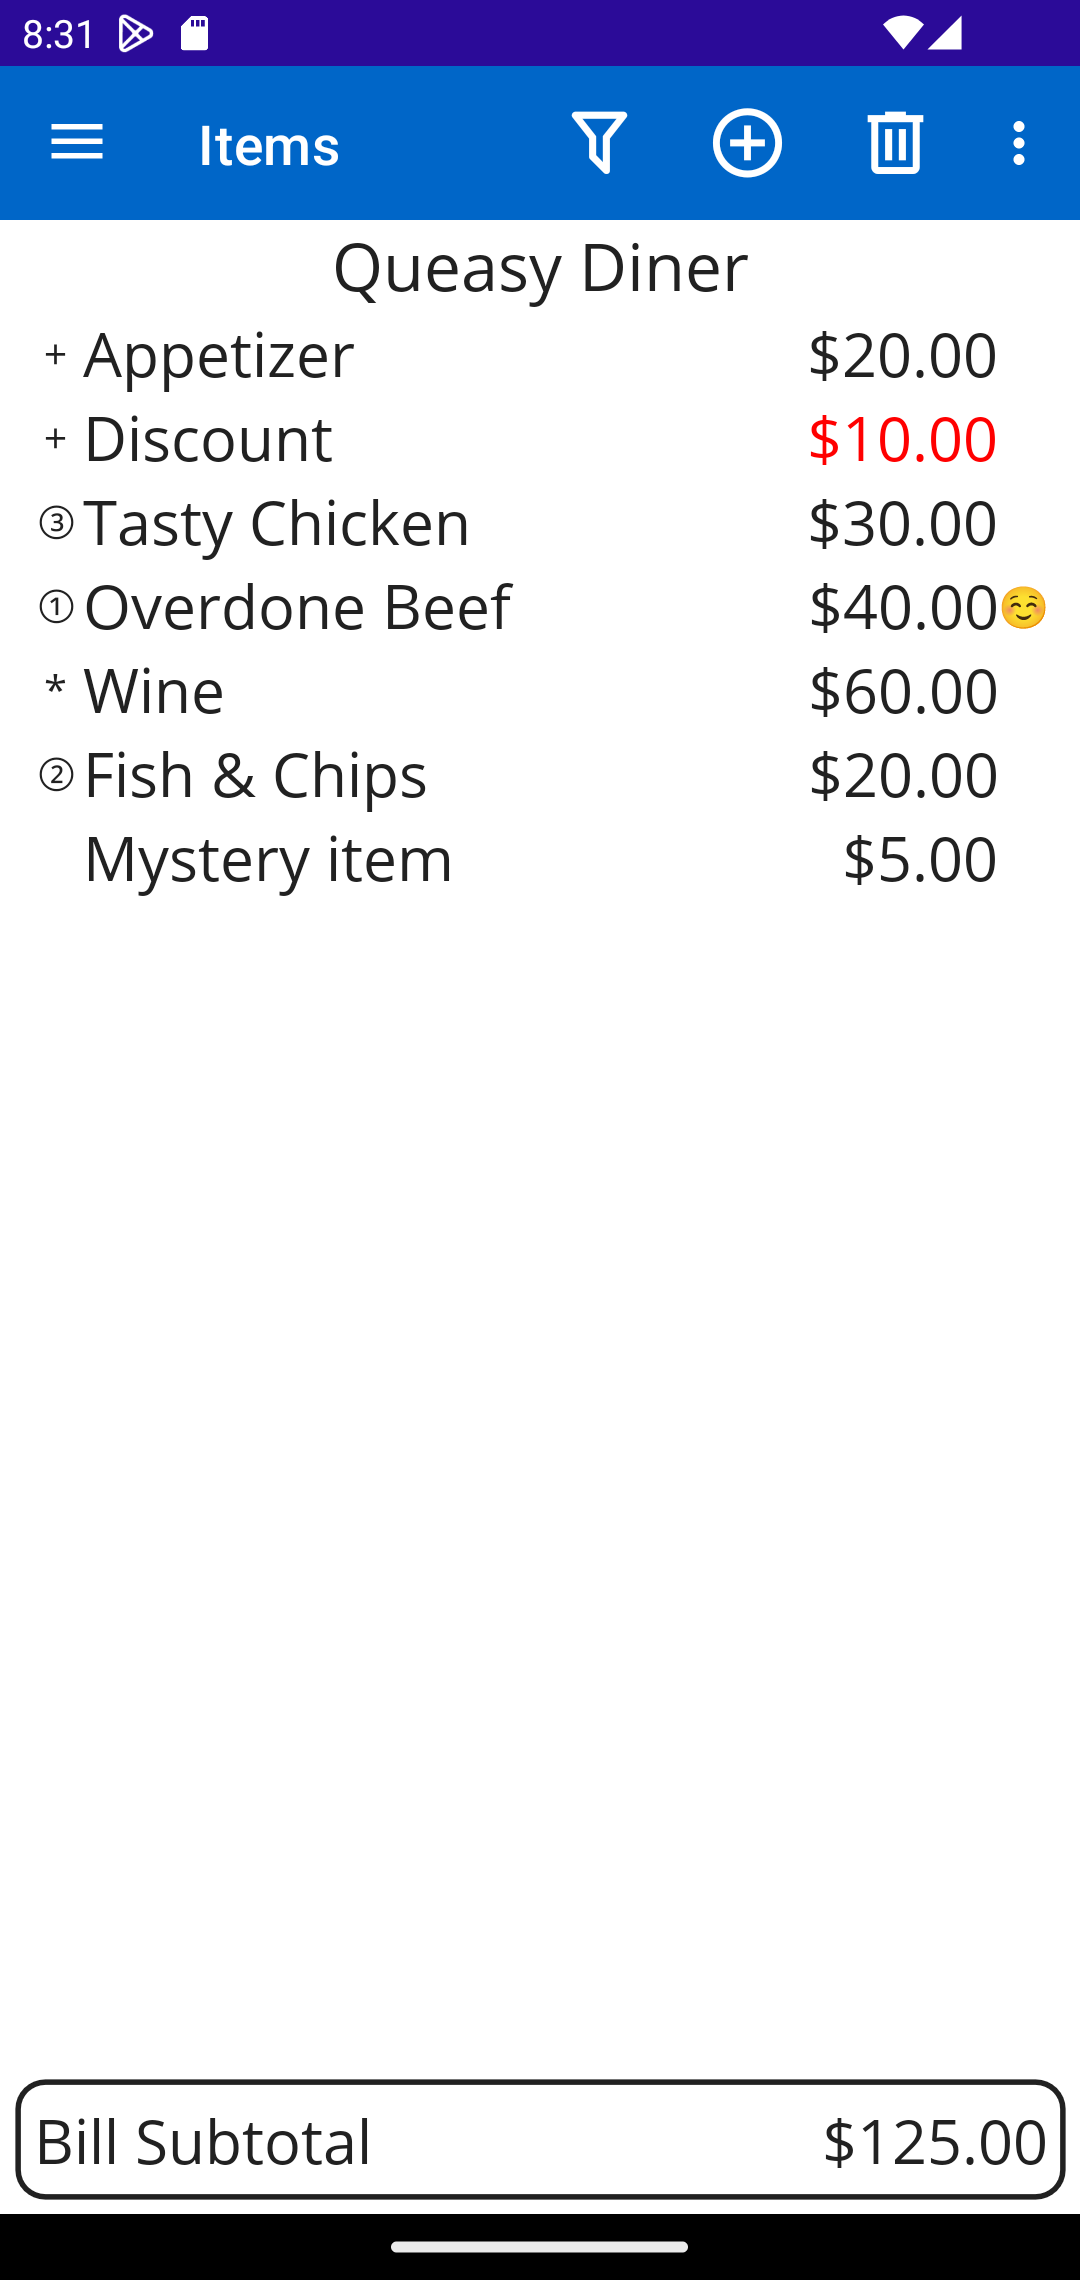
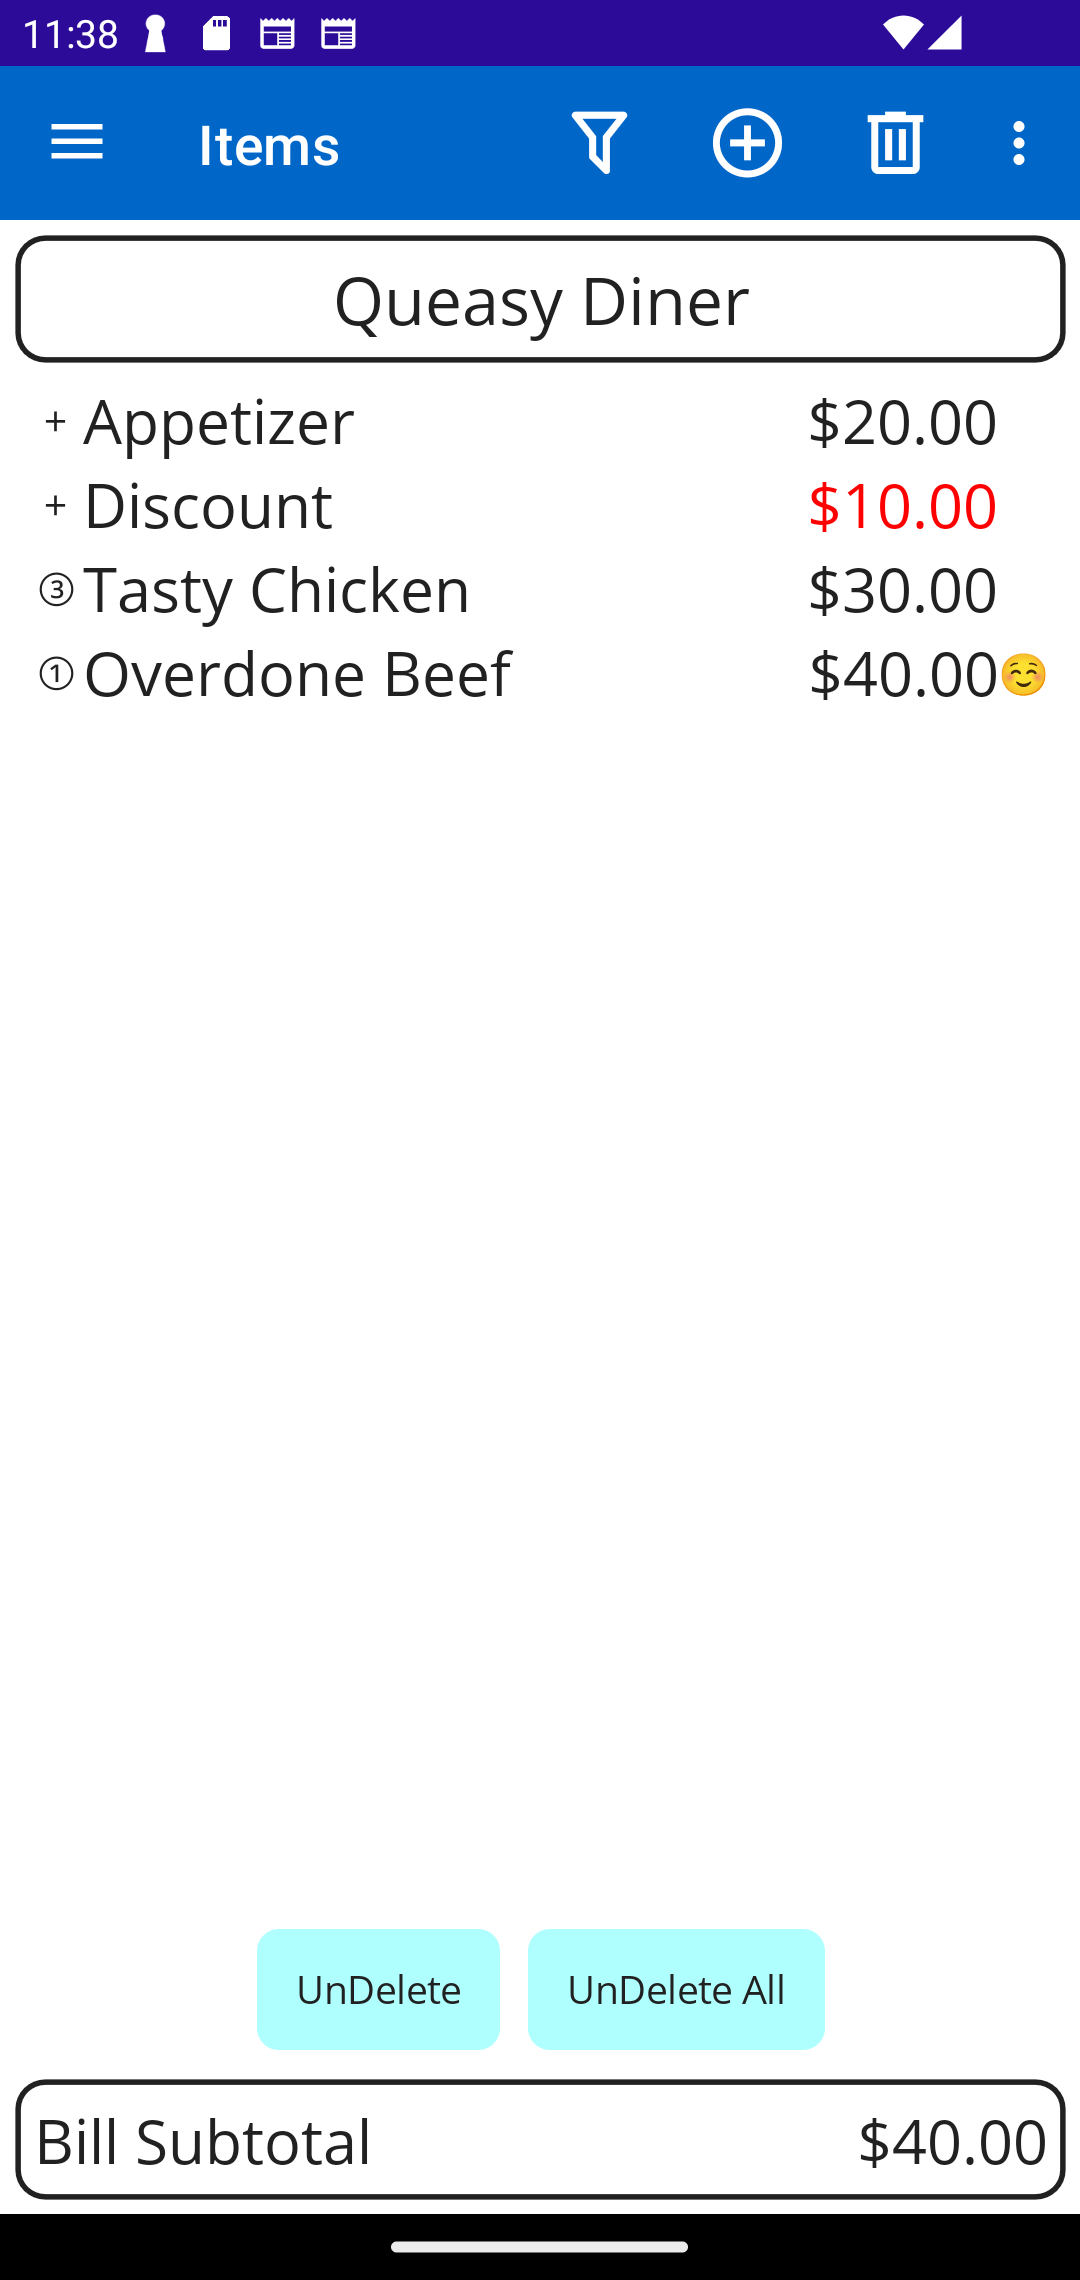
Update LineItemsPage Help to 4.1.5

diff --git a/web/divisibill/lineitemsglossary.html b/web/divisibill/lineitemsglossary.html
@@ -13,15 +13,21 @@
 <h3 id="flyout">Flyout (<u></u>)</h3>
 <p>This icon, in the top left corner of the screen, allows you to show or collapse the flyout menu to navigate to other pages (navigate from the Items page to the Totals page by swiping left, back to the Items page by swiping right).</p>
 <h3 id="filter">Filter (<u></u>/<u></u>)</h3>
-<p>Cancels filtering for a particular person if it is already in use or filters based on the first person assigned to the selected item (if there is one).</p>
+<p>Changes filtering, either by cycling round all the participants, or if an item is selected, all the participants for the selected particular item. Before cycling round to the first item it turn off filtering altogether, so as to show the full list of items.</p>
 <h3 id="add">Add (<u></u>)</h3>
-<p>Adds a new item to the bill and selects it so you can edit the description, amount and assignment to participants.</p>
+<p>Adds a new item to the bill before the currently selected item and selects the newly added item so you can edit the description, amount and assignment to participants.</p>
 <h3 id="delete">Delete (<u></u>)</h3>
 <p>Deletes the selected item or items (you can Undo this if you do it by mistake). To delete a single item, you can also swipe left on that item.</p>
 <h3 id="ellipsis">Ellipsis (<u></u>)</h3>
-<p>Tap on the ellipsis to open a secondary menu containing commands to send mail or distribute shares of an item.</p>
-<p>Selecting &quot;Mail&quot; will send mail containing information about the bill overall, not personalized to any specific participant.</p>
-<p>The selections for sharing let you clear sharing, share evenly, or share proportionally according to what each person spent.</p>
+<p>Tap on the ellipsis to open a secondary menu containing a selection of commands.</p>
+<ul>
+<li>Clear Filter: Stops filtering for a particular participant and shows all items.</li>
+<li>Duplicate: Creates a copy of the selected item and places it before the item (delete and undelete it to move it somewhere else).</li>
+<li>Send Mail: will send mail containing information about the bill overall, not personalized to any specific participant.</li>
+<li>Payments: Shows what the payment totals for the bill and the tip to add to round the total to an exact amount.</li>
+<li>Sharing: Clear sharing on the selected item, share it evenly between item participants, or share proportionally according to what each participant spent on the rest of the bill (which can be handy for splitting discounts). The &quot;Change Sharing&quot; command cycles among these choices.</li>
+<li>Swipe: for long item lists this lets you scroll around in them.</li>
+</ul>
 <h2 id="venue-name">Venue Name</h2>
 <p>This is the name of the current venue. Tapping the name shows the properties (tax and tip rates, for example) of the current bill, double tapping lets you select a new venue from your list.</p>
 <h2 id="sharing-control-column">Sharing Control Column</h2>
@@ -30,7 +36,11 @@
 <h2 id="comp">Comp</h2>
 <p>Sometimes items will be &quot;comped&quot; by a restaurant, usually by way of an apology because something went wrong. Clicking in this column allows you to toggle the Comped status of an item, denoted by ☺ (a smiley face icon). Comped items are free, but are still considered when calculating the tip. If you don't want a comped item to contribute to the tip, just set the cost to zero, or delete the item altogether.</p>
 <h2 id="line-items">Line Items</h2>
-<p>You can swipe individual items left to delete them (if you delete an item by mistake you can get it back until you exit the page). Tap on an item to make it the current focus so you can edit the name or price and/or assign it to one or more participants.</p>
+<p>You can swipe individual items left to delete them (if you delete an item by mistake you can get it back until you exit the page). Tap on an item to make it the current focus so you can edit the name or price and/or assign it to one or more participants. This button disappears when you leave the page and you can no longer restore the current set of deleted items.</p>
+<h2 id="undelete">Undelete</h2>
+<p>The Undelete button appears when there is at least one deleted item, tap it to restore the most recently deleted item. This button disappears when you leave the page.</p>
+<h2 id="undelete-all">Undelete All</h2>
+<p>The Undelete All button appears when there is more than one deleted item, tap it to restore all the deleted items. This button disappears when you leave the page and you can no longer restore the current set of deleted items.</p>
 <h2 id="subtotal">Subtotal</h2>
 <p>When no item is selected a box containing the subtotal shows here. When an item is selected, some additional controls appear; you can see them <a href="itemselected.html">here</a>.</p>
 <p>If no item is selected and &quot;Discount After Tax&quot; is set for this bill in the bill properties then the discount is not part of the subtotal and is shown on a separate line like this:</p>

diff --git a/web/divisibill/lineitemsglossary.md b/web/divisibill/lineitemsglossary.md
@@ -12,11 +12,11 @@ This icon, in the top left corner of the screen, allows you to show or collapse 
 
 ### Filter (<u>&#xF0233;</u>/<u>&#xF14F0;</u>)
 
-Cancels filtering for a particular person if it is already in use or filters based on the first person assigned to the selected item (if there is one).
+Changes filtering, either by cycling round all the participants, or if an item is selected, all the participants for the selected particular item. Before cycling round to the first item it turn off filtering altogether, so as to show the full list of items.
 
 ### Add (<u>&#xF0419;</u>)
 
-Adds a new item to the bill and selects it so you can edit the description, amount and assignment to participants.
+Adds a new item to the bill before the currently selected item and selects the newly added item so you can edit the description, amount and assignment to participants.
 
 ### Delete (<u>&#xF0A7A;</u>)
 
@@ -24,12 +24,15 @@ Deletes the selected item or items (you can Undo this if you do it by mistake). 
 
 ### Ellipsis (<u>&#xF01D9;</u>)
 
-Tap on the ellipsis to open a secondary menu containing commands to send mail or distribute shares of an item.
+Tap on the ellipsis to open a secondary menu containing a selection of commands.
 
-Selecting "Mail" will send mail containing information about the bill overall, not personalized to any specific participant.
-
-The selections for sharing let you clear sharing, share evenly, or share proportionally according to what each person spent. 
-
+- Clear Filter: Stops filtering for a particular participant and shows all items.
+- Duplicate: Creates a copy of the selected item and places it before the item (delete and undelete it to move it somewhere else).  
+- Send Mail: will send mail containing information about the bill overall, not personalized to any specific participant.
+- Payments: Shows what the payment totals for the bill and the tip to add to round the total to an exact amount.
+- Sharing: Clear sharing on the selected item, share it evenly between item participants, or share proportionally according to what each participant spent on the rest of the bill (which can be handy for splitting discounts). The "Change Sharing" command cycles among these choices.
+- Swipe: for long item lists this lets you scroll around in them.
+ 
 ## Venue Name
 
 This is the name of the current venue. Tapping the name shows the properties (tax and tip rates, for example) of the current bill, double tapping lets you select a new venue from your list.
@@ -46,7 +49,15 @@ Sometimes items will be "comped" by a restaurant, usually by way of an apology b
 
 ## Line Items
 
-You can swipe individual items left to delete them (if you delete an item by mistake you can get it back until you exit the page). Tap on an item to make it the current focus so you can edit the name or price and/or assign it to one or more participants.
+You can swipe individual items left to delete them (if you delete an item by mistake you can get it back until you exit the page). Tap on an item to make it the current focus so you can edit the name or price and/or assign it to one or more participants. This button disappears when you leave the page and you can no longer restore the current set of deleted items.
+
+## Undelete
+
+The Undelete button appears when there is at least one deleted item, tap it to restore the most recently deleted item. This button disappears when you leave the page.
+
+## Undelete All 
+
+The Undelete All button appears when there is more than one deleted item, tap it to restore all the deleted items. This button disappears when you leave the page and you can no longer restore the current set of deleted items.
 
 ## Subtotal
 
